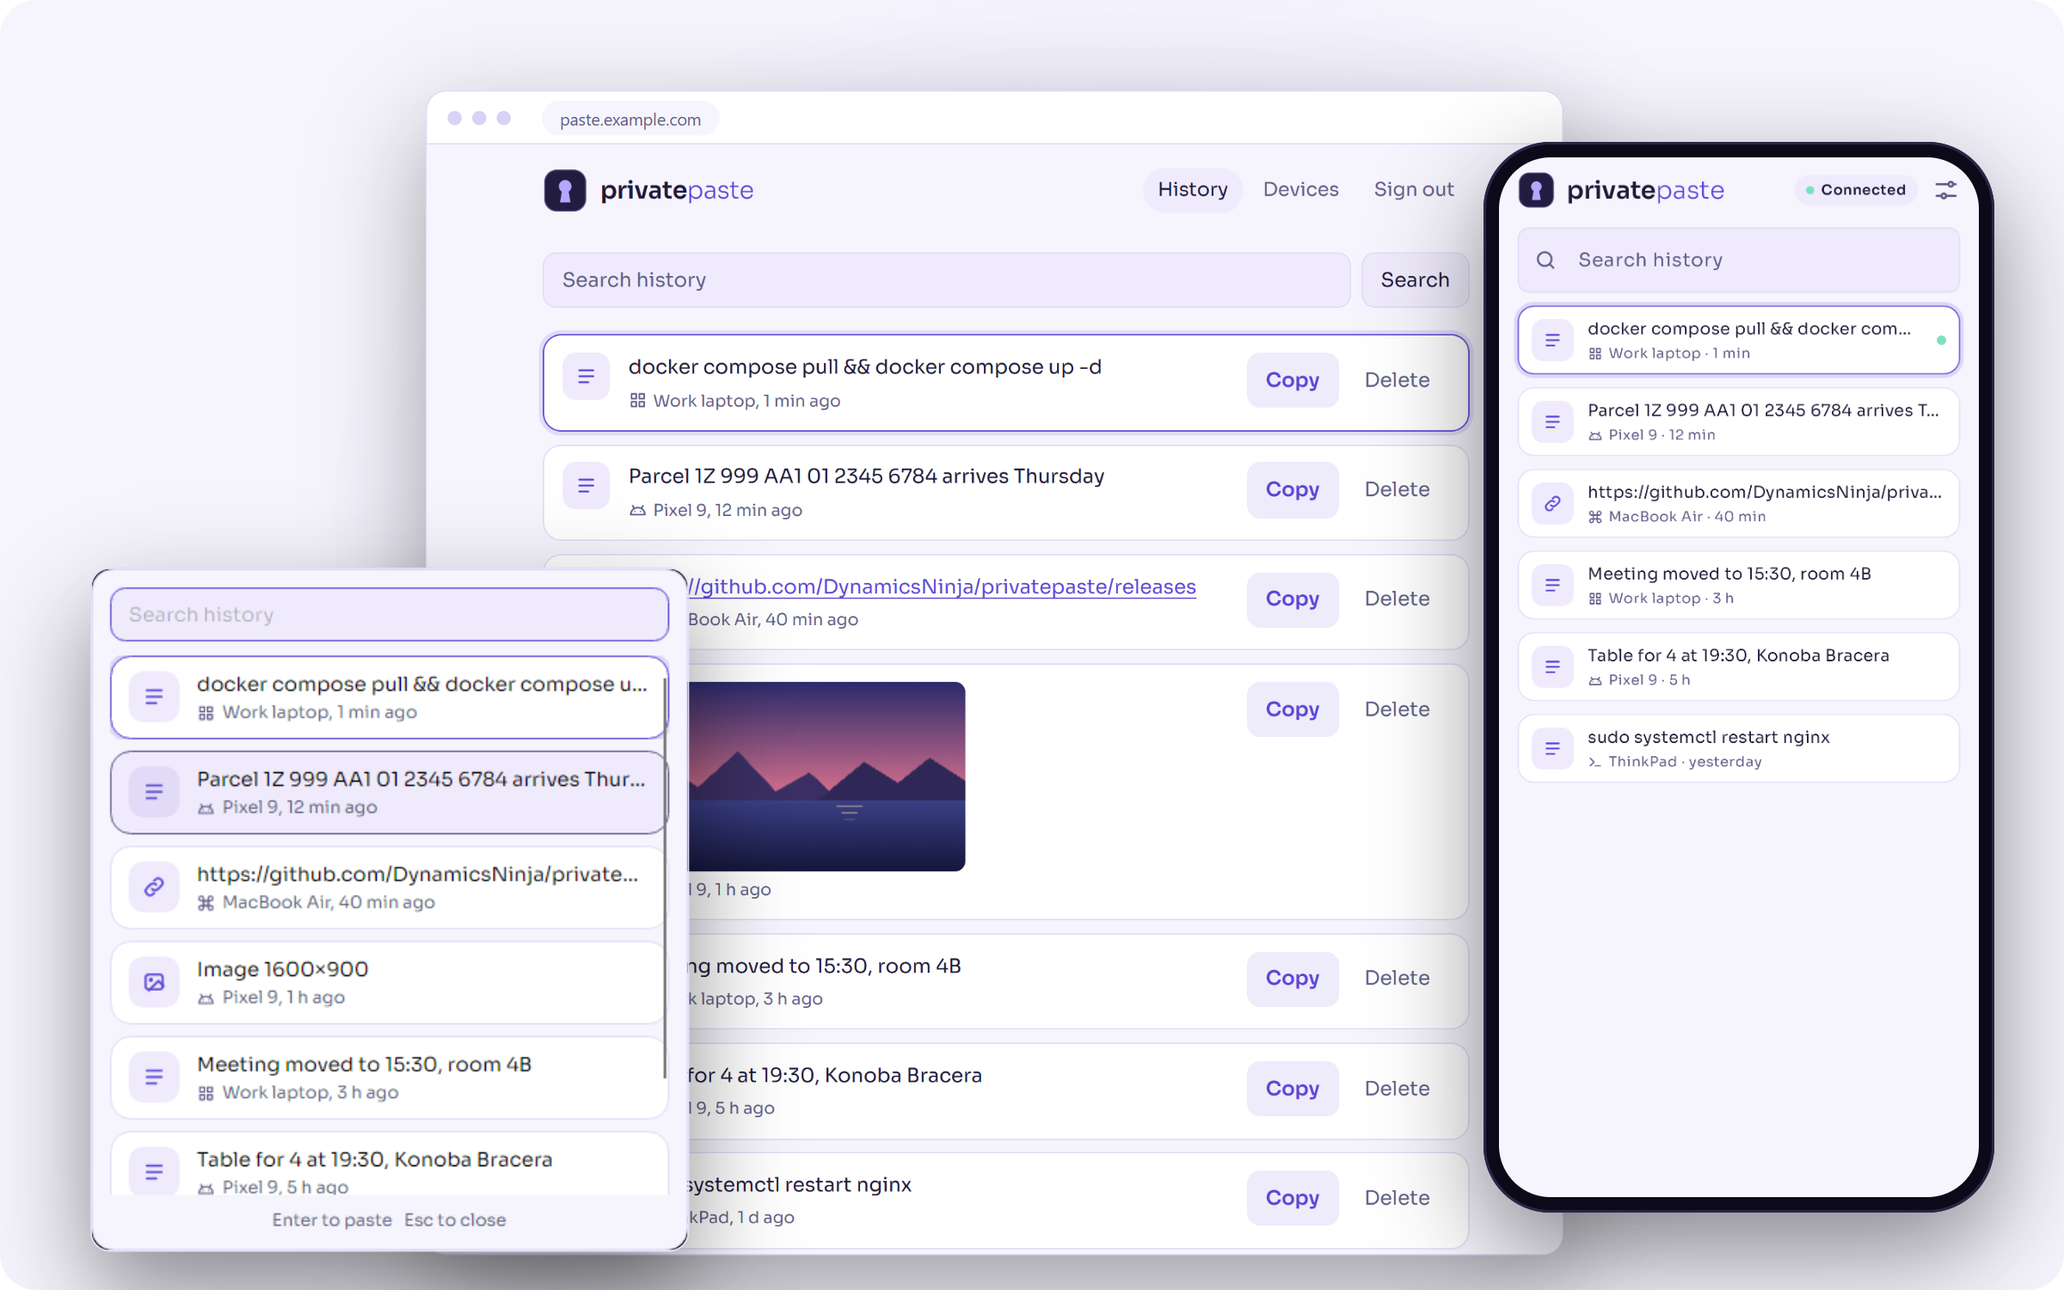
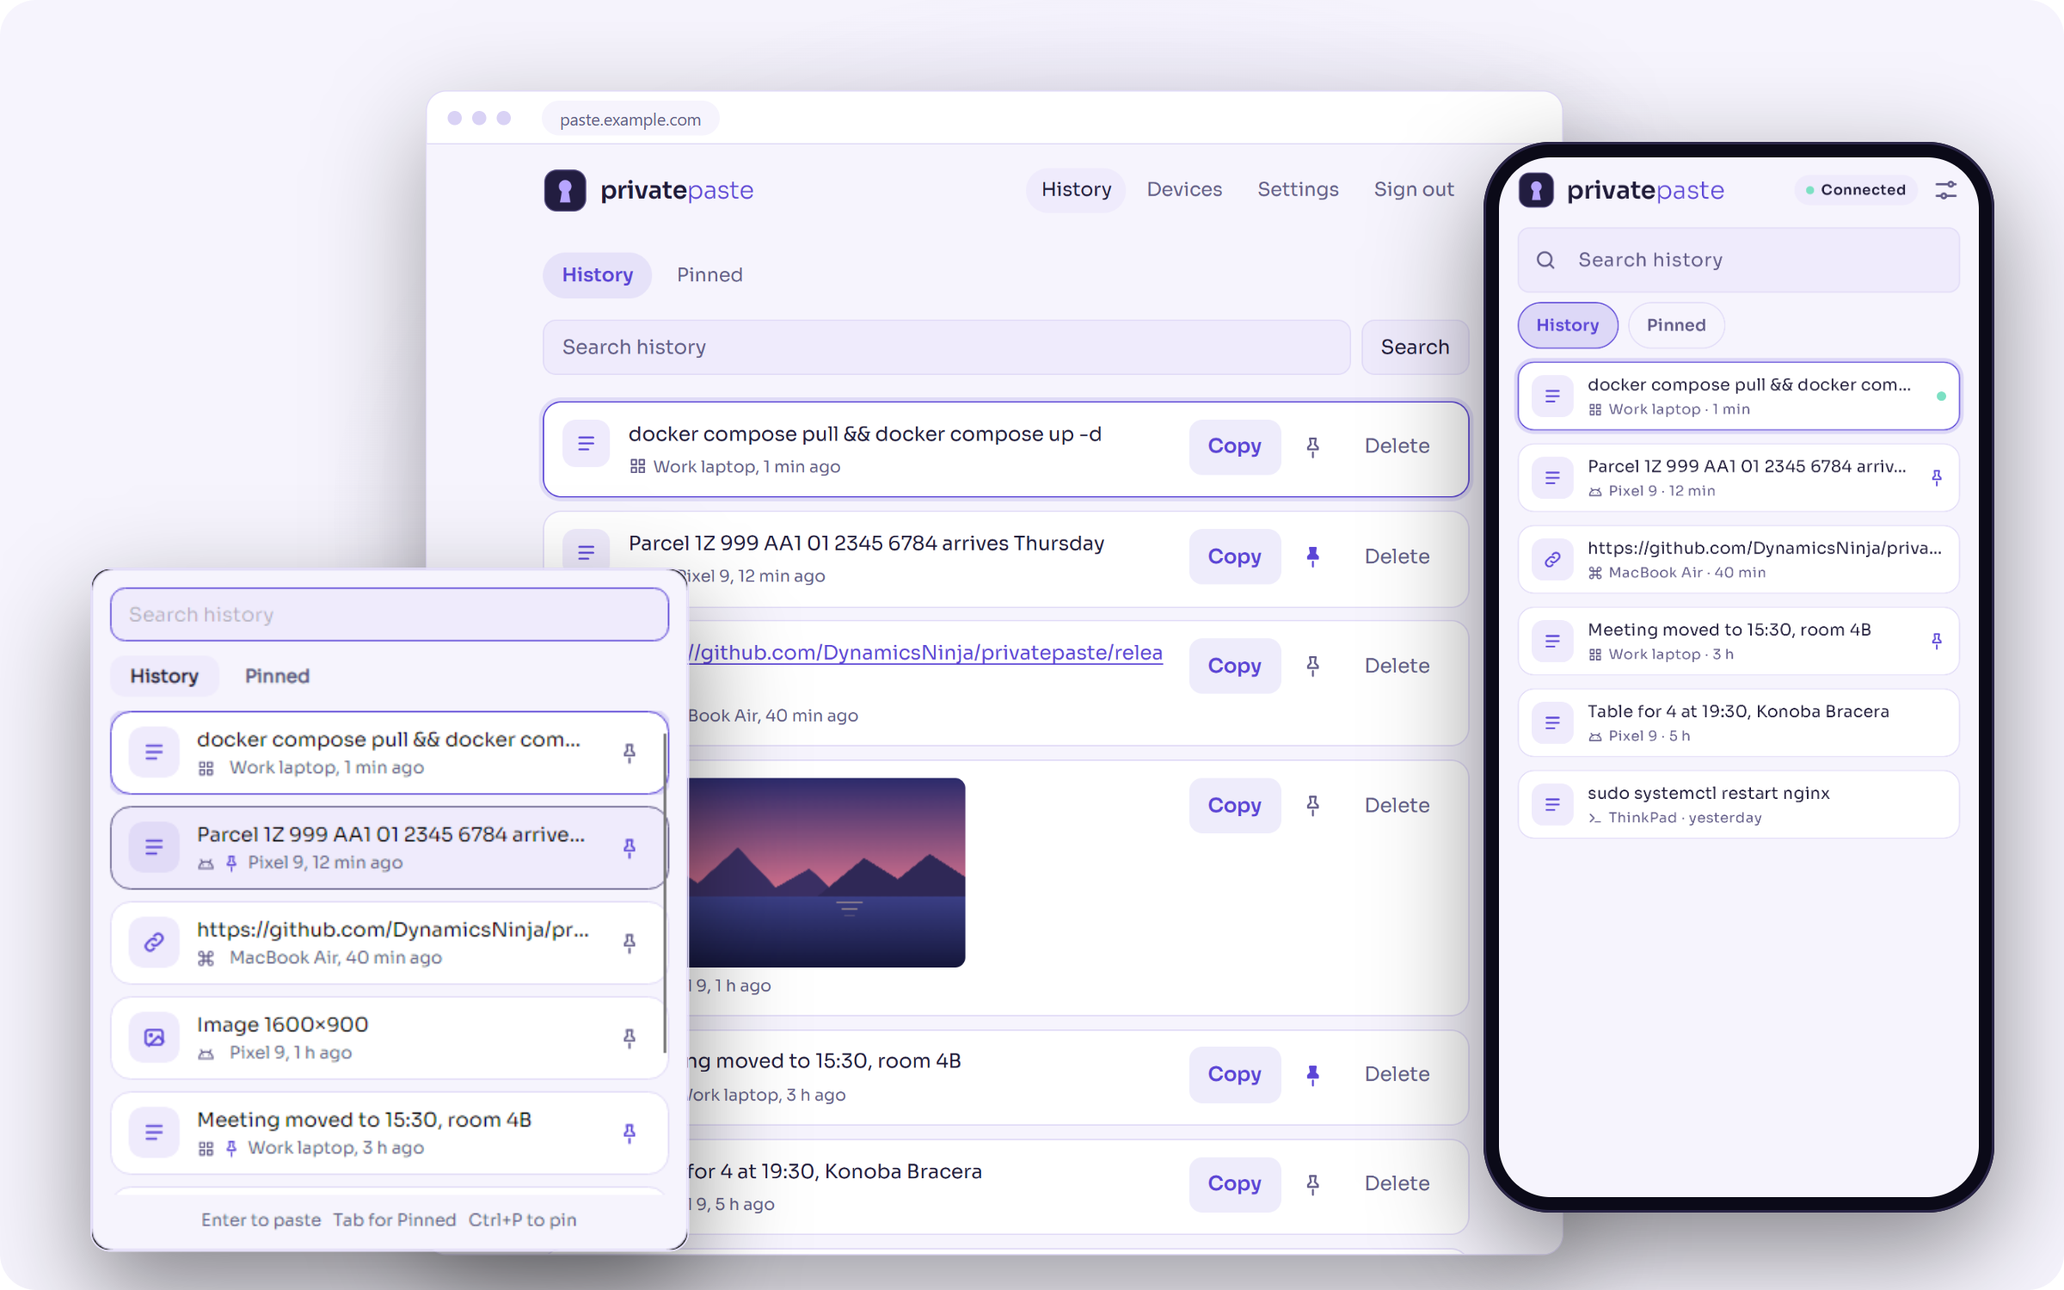
docs: private copies, pins and history clearing Co-Authored-By: Claude Opus 5.5 <noreply@anthropic.com> Claude-Session: https://claude.ai/code/session_01S7qnD4vNtkFtpTzPq1fw5R

diff --git a/android/app/src/test/java/xyz/ficdev/privatepaste/ui/ReadmeScreenshotTest.kt b/android/app/src/test/java/xyz/ficdev/privatepaste/ui/ReadmeScreenshotTest.kt
@@ -40,7 +40,7 @@ class ReadmeScreenshotTest {
 
     @Serializable
     private data class DemoClip(
-        val device: String, val platform: String?, val kind: ClipKind, val text: String? = null, val minutesAgo: Long,
+        val device: String, val platform: String?, val kind: ClipKind, val text: String? = null, val minutesAgo: Long, val pinned: Boolean = false,
     )
 
     @Serializable
@@ -63,6 +63,7 @@ class ReadmeScreenshotTest {
                 id = "demo-$i", seq = 1000L - i, kind = c.kind, text = c.text, hash = "h-$i", sizeBytes = 10,
                 sourceDeviceId = c.device, sourceDeviceName = c.device, sourceDevicePlatform = c.platform,
                 lastCopiedAt = now.minusSeconds(c.minutesAgo * 60),
+                pinnedAt = if (c.pinned) now.minusSeconds(c.minutesAgo * 60 - 60).toString() else null,
             )
         }
         val state = HistoryState(items = items, liveClipId = items.firstOrNull()?.id, syncState = SyncState.CONNECTED)

diff --git a/tests/PrivatePaste.Tests/Client/DesktopRenderTests.cs b/tests/PrivatePaste.Tests/Client/DesktopRenderTests.cs
@@ -277,6 +277,8 @@ public class DesktopRenderTests
                 null, c.GetProperty("device").GetString()!, now.AddMinutes(-c.GetProperty("minutesAgo").GetInt32()))
             {
                 SourceDevicePlatform = c.GetProperty("platform").GetString(),
+                PinnedAt = c.TryGetProperty("pinned", out var pinned) && pinned.GetBoolean()
+                    ? now.AddMinutes(-c.GetProperty("minutesAgo").GetInt32() + 1) : null,
             });
         }
         var vm = new PopupViewModel(cache, (_, _) => Task.FromResult<IReadOnlyList<PrivatePaste.Protocol.ClipDto>>([]),

diff --git a/docs/desktop.md b/docs/desktop.md
@@ -15,12 +15,46 @@ A tray app that keeps your clipboard in sync with the server (Windows; see [macO
 - **First sign-in**: start the app, enter the server URL (`https://` only; plain `http://` is accepted for localhost), the server password and a device name. After that it stays signed in and starts minimized in the tray.
 - **Hotkey**: Ctrl+Shift+V opens the history popup. Pick an item to re-sync it, put it on the clipboard and paste it. The hotkey can be changed in Settings.
 - **Popup and focus**: on Windows the popup never takes the focus from the app you are in, so a text box stays in edit mode (Explorer's address bar or a file rename box too) and the paste lands there. While it is open, typing goes to its search box, Up/Down/Page Up/Page Down pick, Enter or a click pastes, and Esc, a click outside or switching to another window closes it. Other keys are ignored, so nothing you press can act on the app below. The search box takes direct keys only: IME input (Japanese, Chinese, ...) and dead-key accents can't be typed into it.
+- **Pinned clips**: the popup has History and Pinned tabs (Tab switches between them). Each row has a pin button, and Ctrl+P pins or unpins the selected row. Pinned clips sync to every device, show a pin in History, and are kept when the history is cleared or auto-deleted on the server. The Pinned tab lists them all, even ones older than the 500 kept in the cache.
+- **Private copies and the blocklist**: see [Private copies](#private-copies).
 - **Pause**: the tray menu has Pause sync. While paused nothing is sent or received, and clips copied during the pause are never uploaded, not even after Resume.
 - **Where data lives**: `%APPDATA%\PrivatePaste` holds the settings, the encrypted clip cache (latest 500 items), the DPAPI-protected sign-in token and `logs\`.
 - **Uninstall**: open Settings > Apps > Installed apps, find PrivatePaste and choose Uninstall. It closes the app, removes it and its "Start with Windows" entry, and keeps `%APPDATA%\PrivatePaste`; delete that folder by hand to remove your history and sign-in too.
 - **Uninstall the portable exe**: if you are signed in, untick "Start with Windows" in Settings; if you are signed out (Settings needs a sign-in), remove the autostart value as described in the next point instead. Then quit the app from the tray and delete `PrivatePaste.exe` and the `%APPDATA%\PrivatePaste` folder.
 - **Leftover autostart entry**: if you deleted the portable exe without unticking "Start with Windows", remove the value `PrivatePaste` under `HKCU\Software\Microsoft\Windows\CurrentVersion\Run` (regedit, or `reg delete HKCU\Software\Microsoft\Windows\CurrentVersion\Run /v PrivatePaste /f`).
 - **Build it yourself**: `powershell -File scripts/publish-windows.ps1` writes `artifacts/win-x64/PrivatePaste.exe` and `artifacts/PrivatePaste-win-x64.zip`. `powershell -File scripts/build-installer.ps1 -Version 0.1.0` does the same and then writes `artifacts/PrivatePaste-0.1.0-win-x64.msi` (add `-NoPublish` to reuse the exe already built). The installer is made with the WiX Toolset, a .NET local tool pinned in `.config/dotnet-tools.json`; the script restores it, so only the .NET SDK is needed. The MSI version is the three numbers of the release version: a prerelease suffix is dropped, so `0.2.0-rc1` becomes MSI version `0.2.0`, and the final `0.2.0` installs over the release candidate. Pushing a `desktop-v*` tag runs `.github/workflows/desktop.yml`, which tests, builds all platforms and attaches them to a GitHub Release.
+
+## Private copies
+
+A copy that the app it came from marks as private is ignored completely: it is not uploaded, not put in the history or cache, and not sent to any device. The same goes for copies from apps on your blocklist (Settings > Private copies). Only a line such as "skipped a copy marked private" is logged, never the content or its length. Text that merely looks like a password is not guessed at and syncs normally.
+
+What is checked, by platform:
+
+| Platform | Marker | Status |
+|---|---|---|
+| Windows | The clipboard formats `ExcludeClipboardContentFromMonitorProcessing`, `Clipboard Viewer Ignore`, and `CanIncludeInClipboardHistory` / `CanUploadToCloudClipboard` holding 0 | Covered by automated tests |
+| macOS | The pasteboard types `org.nspasteboard.ConcealedType` and `org.nspasteboard.TransientType` | Best effort, not verified on a real Mac |
+| Linux | The `x-kde-passwordManagerHint` target with the value `secret` | Best effort, not verified on a real machine |
+
+On macOS and Linux the app reads the clipboard through Avalonia, which may not expose these marker types, so detection there may not work at all until it has been tried on real machines. Don't rely on it for passwords on those systems; use the blocklist and check that it does what you expect. On Windows, a marker the app can't read (for example a DWORD it can't parse) counts as private: the copy is skipped rather than risked.
+
+**The blocklist** covers apps that don't mark their copies. In Settings > Private copies pick an app from the ones you recently copied from, or type its name (like `keepassxc`), and copies from it are ignored.
+
+- On Windows the app is the process that owns the clipboard (or the foreground app when the owner is unknown).
+- On macOS the app is the frontmost one when the copy is read, so a copy made just before you switched apps can be attributed to the wrong app.
+- On Linux the blocklist works on X11 only; on Wayland the copying app can't be identified, so the setting is replaced by a note. Even on X11 it may not match when a clipboard manager (klipper, GPaste) owns the clipboard. The name can also be a runtime (`python3`, `electron`) or a Flatpak wrapper (`bwrap`) instead of the app you expect.
+- Copies made by a password manager's **browser extension** come from the browser, so the blocklist can't target them (blocking the browser would block everything). They are skipped only if the extension marks them.
+
+How the common password managers behave on Windows is still being tested. Each cell will say *Skipped automatically*, *Add it to the blocklist* or *Can't be caught*.
+
+| Password manager | Desktop app | Browser extension |
+|---|---|---|
+| Bitwarden | Not tested yet | Not tested yet |
+| 1Password | Not tested yet | Not tested yet |
+| KeePass / KeePassXC | Not tested yet | Not tested yet |
+| LastPass | Not tested yet | Not tested yet |
+
+Android is different: the app only reads the clipboard when you send it, so it sends what you chose.
 
 ## macOS and Linux
 

diff --git a/README.md b/README.md
@@ -33,7 +33,10 @@
 ## Why PrivatePaste
 
 - **Copy here, paste there.** Text, links and images you copy show up on the clipboard of your other devices a moment later.
-- **A history you can search.** Every clip is kept until you delete it, with the device it came from, so the thing you copied last Tuesday is still one search away.
+- **A history you can search.** Every clip is kept until you delete it (or clear the history), with the device it came from, so the thing you copied last Tuesday is still one search away.
+- **Private copies stay private.** A copy that a password manager marks as private never leaves your computer: it isn't uploaded, cached or shown anywhere. The desktop app can also ignore copies from apps you name. [Details](docs/desktop.md#private-copies)
+- **Pinned clips.** Pin the clips you reuse. They get their own tab on every device and survive clearing and auto-delete.
+- **Clear it when you want.** Clear the history from the web UI, or let the server delete clips older than 7, 30 or 90 days. Pinned clips stay. Off by default: otherwise clips are kept until you delete them.
 - **Only on your server.** One small container. No accounts, no cloud relay, no push service, no analytics, no third-party requests.
 - **Encrypted at rest.** The database (SQLite3 Multiple Ciphers) and the stored images are encrypted with a key that only you hold.
 - **Native on every device.** A tray app with a history popup (Ctrl+Shift+V) on Windows, macOS and Linux, an Android app with a Quick Settings tile and a Share target, and a web UI for everything else.
@@ -100,15 +103,16 @@ Each device signs in with the server password once and gets its own device token
 - The password is hashed with Argon2id. Sign-in is rate-limited per client IP.
 - Every device has its own token. Revoke a lost device from the web UI and it is signed out at once.
 - Only HTTPS servers are accepted by the apps (plain HTTP only for localhost).
+- Copies that password managers mark as private, and copies from apps on the desktop blocklist, are never uploaded. This depends on the app marking its copies; see [Private copies](docs/desktop.md#private-copies) for what is covered.
 - The server can read your clips: this is encryption at rest, not end-to-end encryption. Run it on a machine you trust.
 
 ## Documentation
 
 | Guide | What's in it |
 |---|---|
-| [Self-hosting](docs/self-hosting.md) | Environment variables, keys, changing the password, backups, proxies, local development |
-| [Desktop app](docs/desktop.md) | Install, upgrade, hotkey, pause, uninstall, building from source; macOS and Linux notes |
-| [Android app](docs/android.md) | Install, background delivery, battery settings by phone maker, building and releasing |
+| [Self-hosting](docs/self-hosting.md) | Environment variables, keys, changing the password, backups, clearing history and auto-delete, proxies, local development |
+| [Desktop app](docs/desktop.md) | Install, upgrade, hotkey, pause, pinned clips, private copies and the app blocklist, uninstall, building from source; macOS and Linux notes |
+| [Android app](docs/android.md) | Install, pinned clips, background delivery, battery settings by phone maker, building and releasing |
 | [API reference](docs/api.md) | Endpoints, WebSocket messages, client rules and the content hash, for writing your own client |
 | [Branding](branding/README.md) | Logo, colors and type |
 

diff --git a/docs/android.md b/docs/android.md
@@ -11,7 +11,9 @@ A sideloaded Android app (Android 10 or newer) that puts clips from your other d
 - **Allow notifications and background use**: after the first sign-in the app asks for the notification permission (the service shows a permanent "PrivatePaste connected" notification) and to be exempt from battery optimization. Allow both. Without them Android stops the connection when the phone sleeps.
 - **Send clipboard tile**: pull down Quick Settings, tap the edit (pencil) button, and drag "Send clipboard" into the active tiles. Tapping it sends what is on the clipboard now.
 - **Share to PrivatePaste**: in any app, use Share and pick "Send to PrivatePaste" to send text, a link or an image.
-- **History**: the app lists the latest 200 clips with search. Tap a clip to put it on the clipboard, long-press to delete it (it disappears on your other devices too).
+- **History**: the app lists the latest 200 clips with search. Tap a clip to put it on the clipboard. Long-press a clip for a menu with Pin (or Unpin) and Delete. Deleting asks first, and the clip disappears on your other devices too.
+- **Pinned**: the Pinned tab lists the clips you pinned on any device, most recently pinned first, even ones older than the 200 in History. Pinned clips also show a pin in History. Pinning doesn't move a clip or put it on the clipboard. Pinned clips are kept when the history is cleared or auto-deleted on the server (both are set in the web UI).
+- **Private copies**: the Android app only reads the clipboard when you send it (the tile, Share), so it sends what you chose, even from a password manager. The desktop apps are the ones that skip private copies.
 - **Delivery** (Settings): "Copy automatically" writes incoming clips straight to the clipboard and is the default. Android may refuse clipboard writes from a background app, mostly while the phone is locked or another app is in front. If clips from your other devices don't land on the clipboard in that case, switch to "Show a notification with a Copy button": each incoming clip posts a notification, and tapping Copy puts it on the clipboard.
 - **Battery settings (Xiaomi, Samsung, Huawei and others)**: these phones stop background apps more aggressively than stock Android. Open Settings → Apps → PrivatePaste → Battery and choose "Unrestricted" (the wording differs by maker). Also:
   - **Xiaomi (MIUI / HyperOS)**: set Battery saver to "No restrictions" for the app and turn on Autostart for it in Security or Permissions.

diff --git a/docs/self-hosting.md b/docs/self-hosting.md
@@ -36,6 +36,15 @@ Existing device tokens keep working after a password change: changing the passwo
 1. Get a consistent copy of `/data` (the `privatepaste-data` volume): either stop the container first (`docker compose stop`, copy, `docker compose start`), or take a snapshot of the volume. Copying the files of a running server can catch the database mid-write.
 2. Store `PP_DB_KEY` separately and safely (for example in a password manager), not next to the backup. The backup is encrypted with it: **without `PP_DB_KEY` a backup is useless**, and anyone who has both the backup and the key can read everything.
 
+## Clearing history and auto-delete
+
+Clips are kept until someone deletes them. The **Settings** page of the web UI has two ways to clean up, both for every device:
+
+- **Clear history** deletes every clip that is not pinned, after a confirmation that says how many clips go. Devices that were offline remove them when they reconnect.
+- **Auto-delete history** (Off, or after 7, 30 or 90 days; off by default) deletes unpinned clips once they are that old. The server checks at startup and then every hour. A clip's age counts from the later of its last copy and its unpin.
+
+Pinned clips are never cleared or auto-deleted. Cleared stays cleared: a device that was offline during a clear and uploads old copies later is told "Cleared" (HTTP 410, see the [API](api.md)) and the copies are dropped, and the same goes for copies older than the auto-delete age. This is a change to the database, so back up `/data` before upgrading to the version that adds it.
+
 ## Proxy and forwarded headers
 
 Login is rate-limited to 5 attempts per minute per client IP (IPv6 clients per /64 prefix). The server trusts `X-Forwarded-For` from the reverse proxy to identify the client IP, so only expose the container through the proxy (Traefik). Do not publish port 8080 directly to the internet, or clients could spoof their IP and bypass the limit.

diff --git a/CLAUDE.md b/CLAUDE.md
@@ -44,6 +44,9 @@ Self-hosted clipboard sync: an ASP.NET Core server with a web UI, an Avalonia de
 
 - Web assets sit behind Cloudflare: reference CSS/JS with `asp-append-version`, and bump the `?v=N` on font URLs in `site.css` when a font file changes.
 - The server allows 5 sign-ins per minute per IP; scripts that create several devices must stay under that.
+- Private-copy markers (`Platform/PrivateCopyMarkers.cs`): Windows `ExcludeClipboardContentFromMonitorProcessing` and `Clipboard Viewer Ignore` mark a copy by existing, `CanIncludeInClipboardHistory` / `CanUploadToCloudClipboard` by a DWORD 0; macOS `org.nspasteboard.ConcealedType` / `TransientType`; Linux the `x-kde-passwordManagerHint` target holding `secret`. A marker that is present but unreadable fails closed (the copy is skipped). macOS and Linux detection is best effort and unverified on real machines.
+- A backfilled upload copied before the last history clear, or older than the auto-delete age, gets 410 "Cleared"; clients drop such queued clips quietly instead of retrying (`docs/api.md`).
+- Pinning never changes `lastCopiedAt`: catch-up and the "apply only the newest live clip to the clipboard" rules depend on it, so a pin arrives as a `live: false` change with a new `seq` and must not be mistaken for a copy.
 - Desktop title-bar tests run on Windows only (Linux and macOS keep native decorations).
 - Android Robolectric tests use the FileProvider stand-in on every host (androidx FileProvider can't map Robolectric's cache dir).
 - `SyncEngineTests` has a known rare flake on the Linux runner: the server registers a new WebSocket just after the client sees the upgrade, so a clip sent in that instant misses the live push. Rerun; a real fix belongs in the hub/connect handshake.
